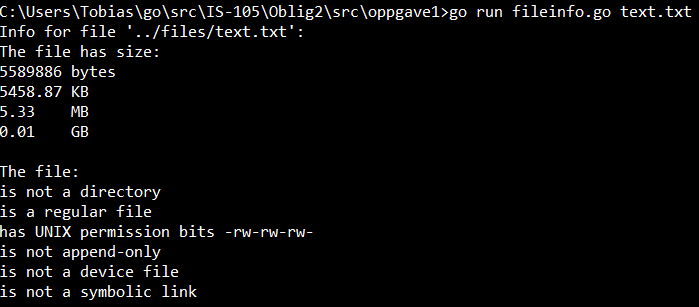
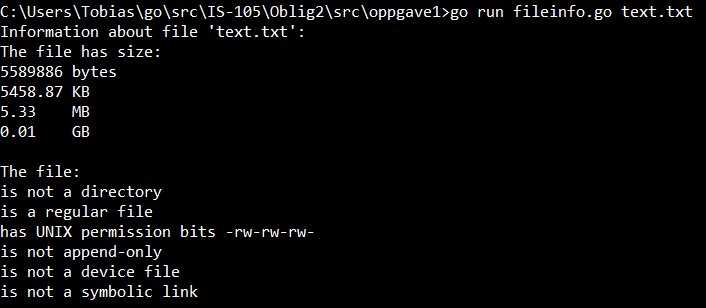
finishing touches

diff --git a/Oblig2/src/oppgave1/fileinfo.go b/Oblig2/src/oppgave1/fileinfo.go
@@ -11,10 +11,11 @@ import (
 //2. cd [repository path]/oppgave1
 //3. go run fileinfo.go text.txt
 func main () {
-	fmt.Printf("Info for file '%s':\n", getFile())
 	fileSize(getFile())
 	fileInfo(getFile())
 }
+
+var fileName string
 
 //Gets filename from run argument and adds filepath to the files folder
 func getFile() string{
@@ -24,7 +25,7 @@ func getFile() string{
 		fmt.Println("Type 'go run fileinfo.go text.txt'")
 	}
 	//first argument
-	fileName := args[1]
+	fileName = args[1]
 	srcFolder := "../files/"
 	filePath := srcFolder + fileName
 	return filePath
@@ -32,6 +33,8 @@ func getFile() string{
 
 //prints the size of the file
 func fileSize(filePath string) {
+	fmt.Printf("Information about file '%s':\n", fileName)
+
 	//finds file at filePath
 	file, err := os.Stat(filePath)
 		if err != nil {
@@ -42,7 +45,7 @@ func fileSize(filePath string) {
 	//bytes as float (for decimal numbers)
 	fBytes := float64(bytes)
 
-	//Prints bytes, KB, MB & GB
+	//Prints bytes, KB, MB & GB. 2 decimal places for all but bytes
 	fmt.Printf("The file has size:\n")
 	fmt.Printf("%d	bytes\n", bytes)
 	fmt.Printf("%.2f	KB \n%.2f	MB \n%.2f	GB \n\n", fBytes / (1024), fBytes / (1024 * 1024), fBytes / (1024 * 1024* 1024) )

diff --git a/Oblig2/src/oppgave2/filecount.go b/Oblig2/src/oppgave2/filecount.go
@@ -124,7 +124,7 @@ func xMostUsed(x int) {
 		}
 
 		//prints #i highest number
-		fmt.Printf("%d. Rune: '%s' , Counts: %d\n", number, mostUsed, highestCount)
+		fmt.Printf("%d. Rune: '%s', Counts: %d\n", number, mostUsed, highestCount)
 
 		//deletes the current highest number
 		delete(RuneMap, mostUsedRune[0])

diff --git a/Oblig2/src/oppgave3/addup.go b/Oblig2/src/oppgave3/addup.go
@@ -19,6 +19,7 @@ func main() {
 	signal.Notify(sigintCh, os.Interrupt, syscall.SIGINT)
 	go stop()
 
+	//go funcs run simultaneously
 	go funcA()
 	go funcB()
 
